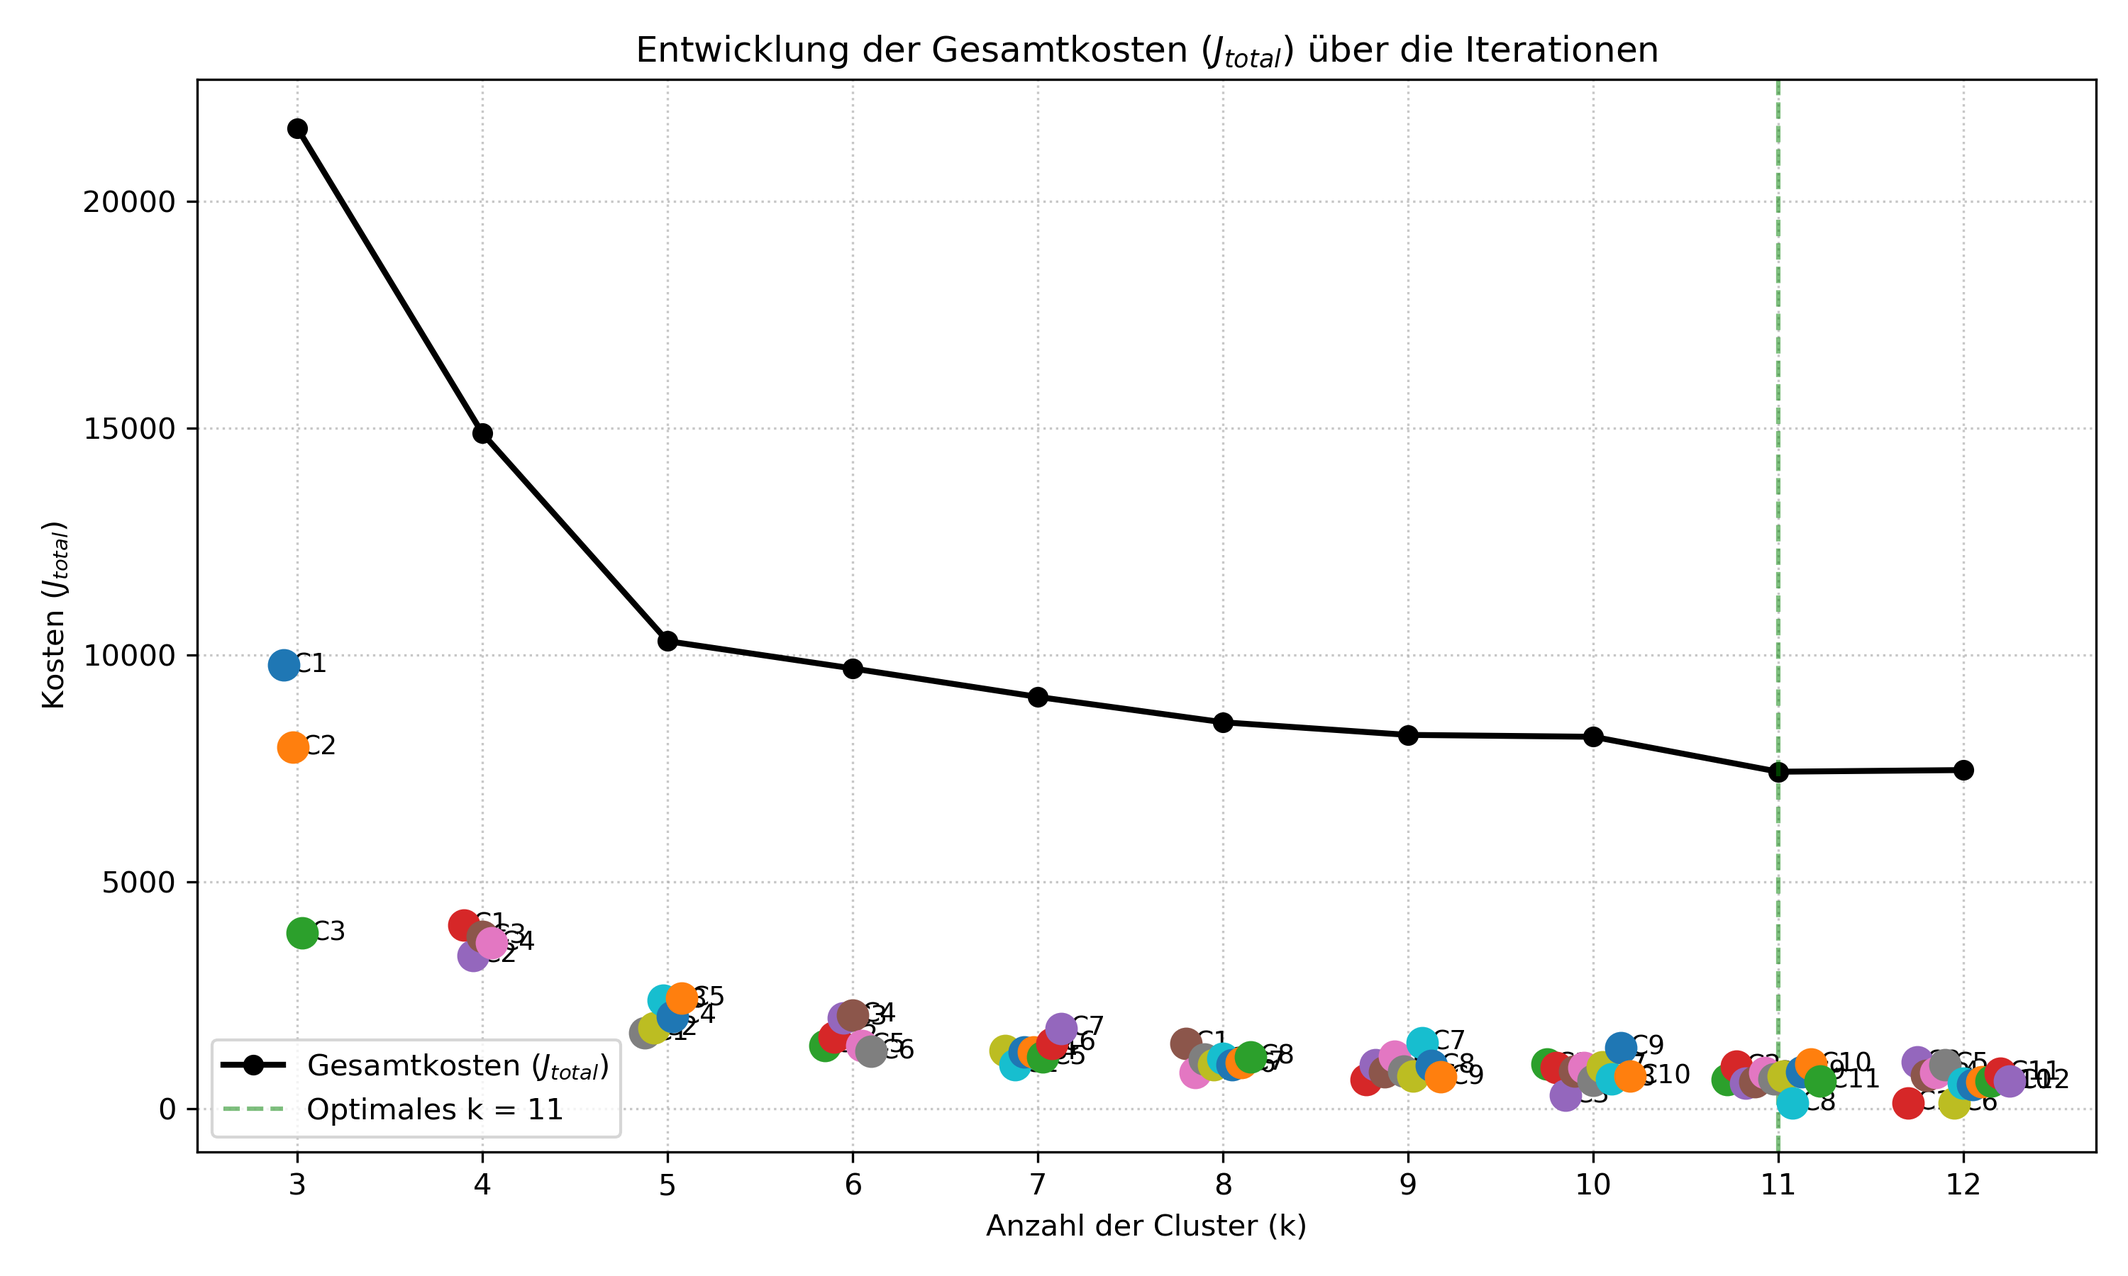
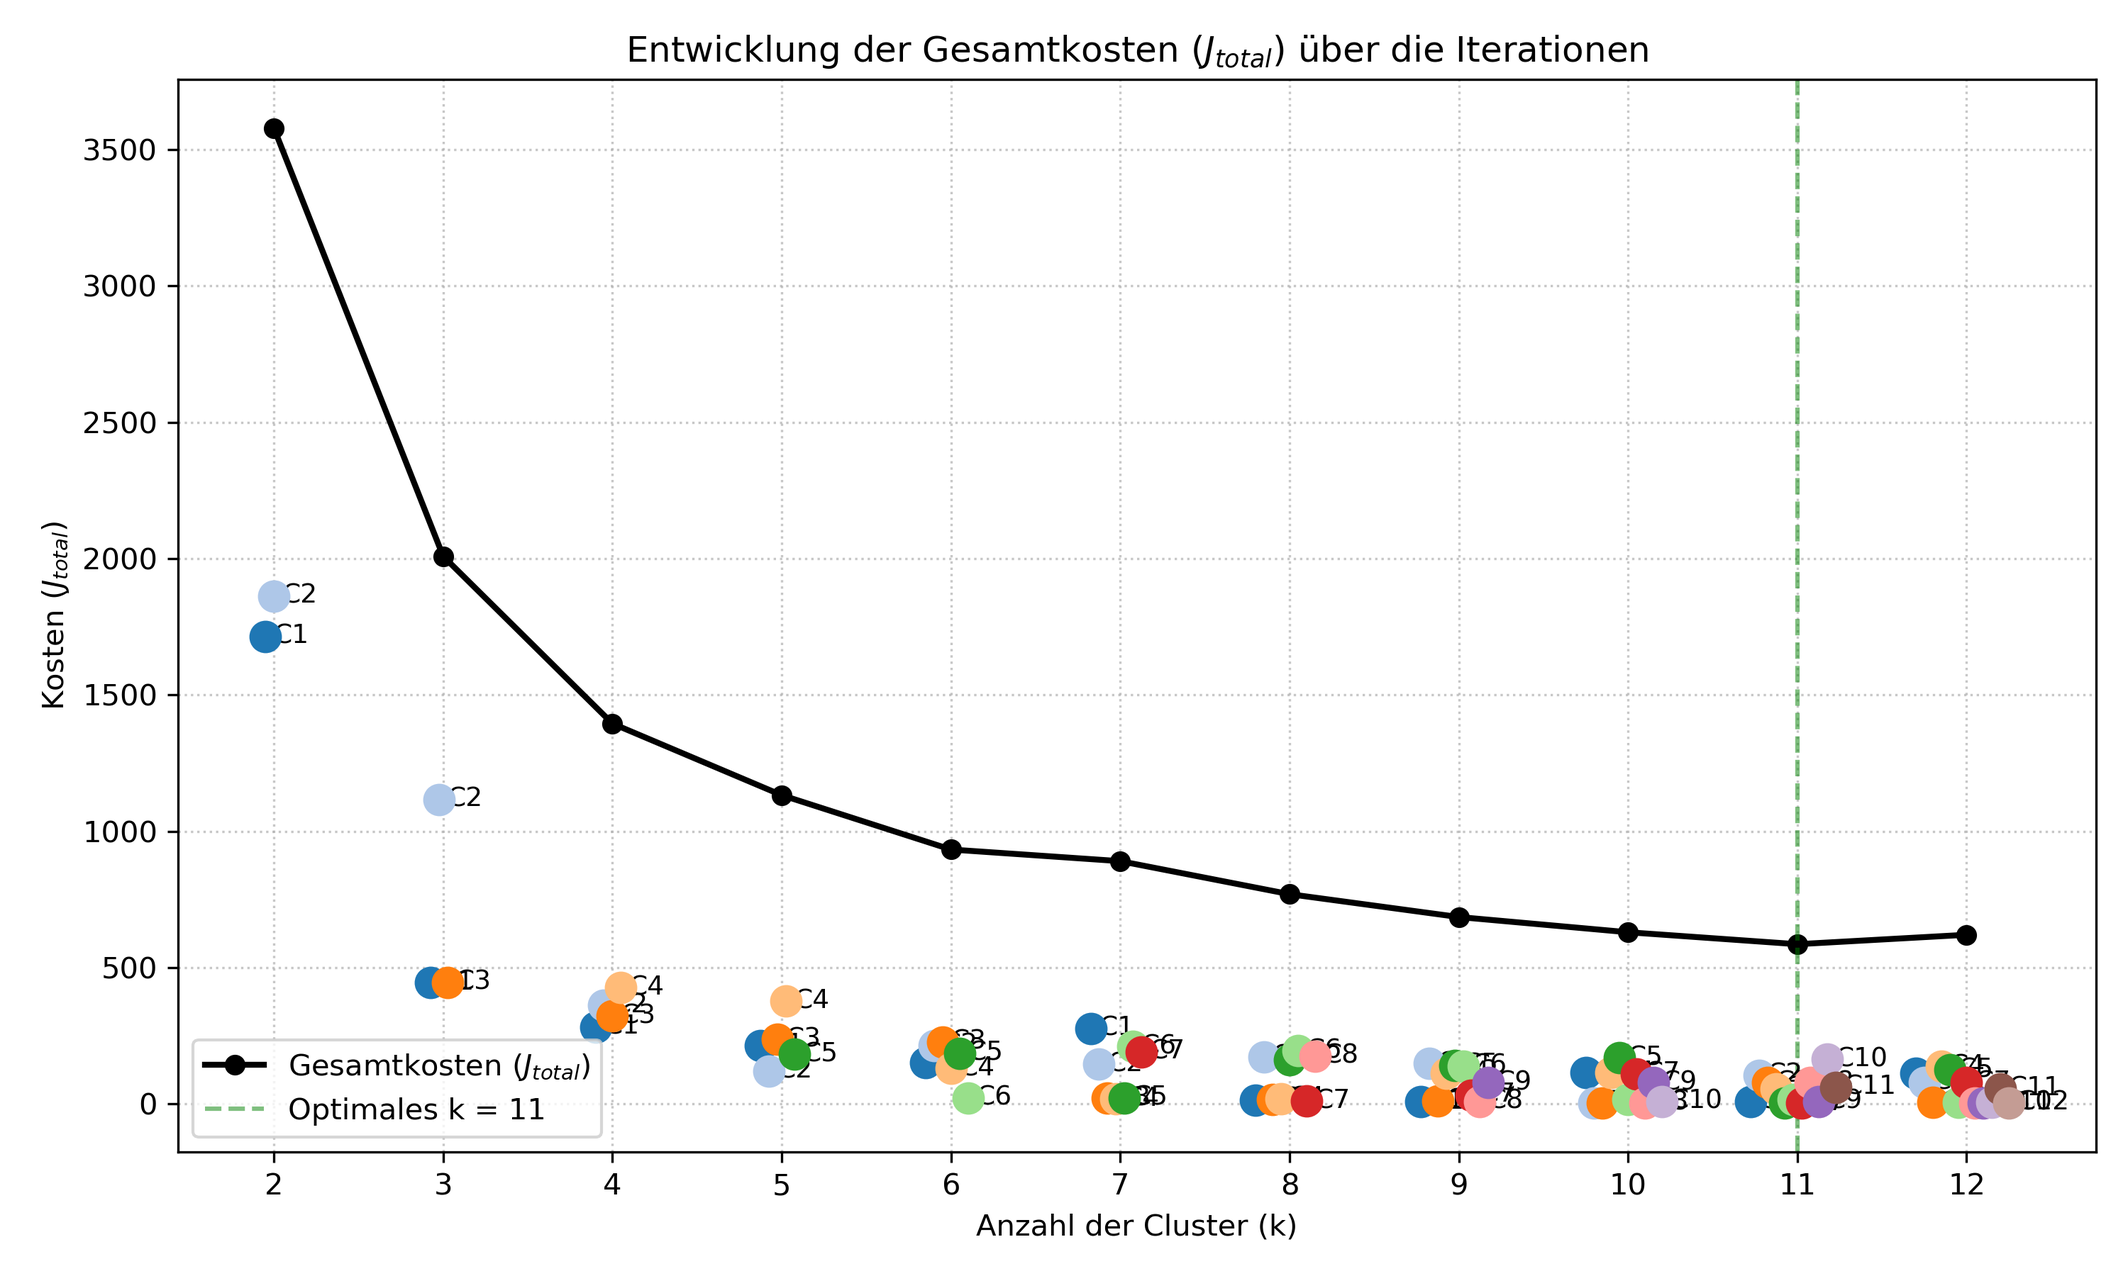
Farbanpassungen, Hindernis hinzugeuegt, Körpergröße, debuggen

diff --git a/src/multi_robot_optimizer/multi_robot_optimizer/optimizer_node.py b/src/multi_robot_optimizer/multi_robot_optimizer/optimizer_node.py
@@ -13,6 +13,14 @@ from visualization_msgs.msg import Marker, MarkerArray
 class OptimizerNode(Node):
     def __init__(self):
         super().__init__('formation_optimizer_node')
+
+        # --- HIER: DIE DEFINITION DER HINDERNISSE ---
+        self.target_obstacles = [[0.0, 0.0, 5.0, 20.0, 15.0, 10.0]]
+        self.avoidance_obstacles = [[15.0, 12.0, 5.0, 5.0, 5.0, 10.0]]
+        
+        # Falls du alte Funktionen hast, die zwingend 'obstacle_coords' brauchen,
+        # kombiniere sie hier einmalig:
+        self.obstacle_coords = self.target_obstacles + self.avoidance_obstacles
         
         # ==========================================
         # Schritt 1: Dateneingabe
@@ -52,6 +60,33 @@ class OptimizerNode(Node):
         self.marker_pub = self.create_publisher(MarkerArray, 'formation_markers', 10)
         self.obstacle_pub = self.create_publisher(MarkerArray, 'obstacle_markers', 10)
 
+        # Feste Farbpalette für bis zu 20 Cluster
+        # Basierend auf Matplotlibs 'tab20' (Wissenschaftlicher Standard)
+        # (R, G, B) im Bereich 0.0 bis 1.0
+        # ==========================================
+        self.cluster_colors = [
+            (0.122, 0.467, 0.706),  # Cluster 0: Dunkelblau
+            (0.682, 0.780, 0.910),  # Cluster 1: Hellblau
+            (1.000, 0.498, 0.055),  # Cluster 2: Orange
+            (1.000, 0.733, 0.471),  # Cluster 3: Hellorange
+            (0.173, 0.627, 0.173),  # Cluster 4: Grün
+            (0.596, 0.875, 0.541),  # Cluster 5: Hellgrün
+            (0.839, 0.153, 0.157),  # Cluster 6: Rot
+            (1.000, 0.596, 0.588),  # Cluster 7: Hellrot
+            (0.580, 0.404, 0.741),  # Cluster 8: Lila
+            (0.773, 0.690, 0.835),  # Cluster 9: Helllila
+            (0.549, 0.337, 0.294),  # Cluster 10: Braun
+            (0.769, 0.612, 0.580),  # Cluster 11: Hellbraun
+            (0.890, 0.467, 0.761),  # Cluster 12: Pink
+            (0.969, 0.714, 0.824),  # Cluster 13: Hellpink
+            (0.498, 0.498, 0.498),  # Cluster 14: Grau
+            (0.780, 0.780, 0.780),  # Cluster 15: Hellgrau
+            (0.737, 0.741, 0.133),  # Cluster 16: Olivgrün
+            (0.859, 0.859, 0.553),  # Cluster 17: Hellolivgrün
+            (0.090, 0.745, 0.812),  # Cluster 18: Cyan
+            (0.620, 0.855, 0.898),  # Cluster 19: Hellcyan
+        ]
+
         # Startpositionen der Roboter (x1, y1, x2, y2, x3, y3)
         # Startpositionen für 6 Roboter (x1, y1, x2, y2, ...)
         self.start_robot_poses = [
@@ -62,12 +97,12 @@ class OptimizerNode(Node):
             1.0, 1.0,  # Roboter 5
             2.0, 1.0   # Roboter 6
         ]
-        self.obstacle_coords = [[0.0, 0.0, 5.0, 20.0, 15.0, 10.0]]
+        
         
         # NEU: Automatisierte 3D-Grid-Generierung passend zum Gebäude
         # 1 Drohne pro 1 qm Wandfläche, genau 1m Abstand zur Wand
         generated_drones_3d = []
-        import numpy as np
+        
         
         # Wand-Dimensionen des Gebäudes: Länge (X)=20m, Breite (Y)=15m, Höhe (Z)=10m
         # Das Gebäude zentriert sich von X=[-10, 10], Y=[-7.5, 7.5], Z=[0, 10]
@@ -75,8 +110,8 @@ class OptimizerNode(Node):
         # A) Kurze Wände (Vorne & Hinten bei X = -11.0 und +11.0 wegen 1m Abstand)
         # Y-Spanne: 15m Breite -> 15 Punkte im 1m-Abstand
         # Z-Spanne: 10m Höhe -> 10 Punkte im 1m-Abstand (0.5m bis 9.5m, keine Drohnen über 10m)
-        y_coords = np.linspace(-7.0, 7.0, 15)
-        z_coords = np.linspace(0.5, 9.5, 10)
+        y_coords = np.linspace(-7.0, 7.0, 5)
+        z_coords = np.linspace(0.5, 9.5, 2)
         
         for x in [-11.0, 11.0]:
             for y in y_coords:
@@ -85,7 +120,7 @@ class OptimizerNode(Node):
                     
         # B) Lange Wände (Links & Rechts bei Y = -8.5 und +8.5 wegen 1m Abstand)
         # X-Spanne: 20m Länge -> 20 Punkte im 1m-Abstand
-        x_coords = np.linspace(-9.5, 9.5, 20)
+        x_coords = np.linspace(-9.5, 9.5, 7)
         
         for y in [-8.5, 8.5]:
             for x in x_coords:
@@ -130,18 +165,7 @@ class OptimizerNode(Node):
         self.previous_total_cost = float('inf')
         self.best_marker_array = None # Speicher für die beste RViz-Ausgabe (k-1)
         
-        ## Einheitliche Farben für Drohnen und Roboter desselben Clusters
-        self.cluster_colors = [
-            ((0.0, 1.0, 0.0), (0.0, 1.0, 0.0)), # Hellgrün
-            ((1.0, 1.0, 0.0), (1.0, 1.0, 0.0)), # Gelb
-            ((0.0, 1.0, 1.0), (0.0, 1.0, 1.0)), # Cyan
-            ((1.0, 0.0, 1.0), (1.0, 0.0, 1.0)), # Magenta
-            ((1.0, 0.5, 0.0), (1.0, 0.5, 0.0)), # Orange
-            ((1.0, 0.2, 0.2), (1.0, 0.2, 0.2)), # Hellrot
-            ((0.5, 0.5, 1.0), (0.5, 0.5, 1.0)), # Hellblau
-            ((1.0, 1.0, 1.0), (1.0, 1.0, 1.0))  # Weiß
-        ]
-
+        
         # Starte die hochpräzise Stoppuhr
         start_time = time.perf_counter()
         
@@ -195,9 +219,13 @@ class OptimizerNode(Node):
         
         w_move = self.params.get('w_move', 0.1)
         
+        # 1. NEU HIER EINBAUEN: Beide Hindernis-Listen kombinieren
+        all_physical_obstacles = self.target_obstacles + self.avoidance_obstacles
+        
         for idx, cluster_drones in enumerate(clusters):
             # 1. INNERE SCHLEIFE (PSO)
-            best_form, pso_cost = self.optimizer.run_pso(cluster_drones, self.start_robot_poses, self.obstacle_coords)
+            # 2. HIER ANPASSEN: all_physical_obstacles statt self.obstacle_coords übergeben
+            best_form, pso_cost = self.optimizer.run_pso(cluster_drones, self.start_robot_poses, all_physical_obstacles)
             
             # NEUE LOGIK: Wenn die Kosten explodieren, ist diese Cluster-Aufteilung physikalisch unmöglich
             if best_form is None or pso_cost >= 1e8:
@@ -284,9 +312,12 @@ class OptimizerNode(Node):
         sorted_clusters.sort(key=lambda item: item[0])
 
         for idx, (_, cluster_drones, form) in enumerate(sorted_clusters):
-            d_color, r_color = self.cluster_colors[idx % len(self.cluster_colors)]
+            # 1. Hole die einzelne (R, G, B) Farbe für dieses Cluster
+            c_color = self.cluster_colors[idx % len(self.cluster_colors)]
+            
+            # 2. Übergebe diese Farbe sowohl an drone_color als auch an robot_color
             self.add_cluster_markers(marker_array, cluster_drones, form, 
-                                     drone_color=d_color, robot_color=r_color, base_id=(idx+1)*100)
+                                     drone_color=c_color, robot_color=c_color, base_id=(idx+1)*100)
         
         self.best_marker_array = marker_array 
         self.marker_pub.publish(marker_array)
@@ -298,76 +329,86 @@ class OptimizerNode(Node):
         
     # --- Hilfsfunktionen für RViz ---
     def publish_obstacles(self):
-        # Erstelle ein neues MarkerArray für die Hindernisse
         marker_array = MarkerArray()
         
-        # Standardwerte (exakt die gleichen wie in der Mathematik!)
-        DEFAULT_SIZE = 2.0
-        DEFAULT_HEIGHT = 5.0
+        # Hilfsfunktion für die Marker-Generierung
+        def create_markers(obs_list, r, g, b):
+            for obs in obs_list:
+                marker = Marker()
+                marker.header.frame_id = "map"
+                marker.header.stamp = self.get_clock().now().to_msg()
+                marker.ns = "obstacles"
+                
+                # Vergibt automatisch immer die nächste freie ID (0, 1, 2, ...)
+                marker.id = len(marker_array.markers) 
+                marker.type = Marker.CUBE
+                marker.action = Marker.ADD
+                
+                # Format auslesen: [x, y, z, size_x, size_y, size_z]
+                marker.pose.position.x = float(obs[0])
+                marker.pose.position.y = float(obs[1])
+                marker.pose.position.z = float(obs[2])
+                
+                marker.pose.orientation.w = 1.0 
+                marker.pose.orientation.x = 0.0
+                marker.pose.orientation.y = 0.0
+                marker.pose.orientation.z = 0.0
+
+                marker.scale.x = float(obs[3])
+                marker.scale.y = float(obs[4])
+                marker.scale.z = float(obs[5])
+
+                # Die übergebene Farbe anwenden
+                marker.color.r = r
+                marker.color.g = g
+                marker.color.b = b
+                marker.color.a = 0.7 
+
+                marker_array.markers.append(marker)
+
+        # 1. Mess-Objekte / Zielgebäude zeichnen (Grün)
+        create_markers(self.target_obstacles, 0.2, 0.8, 0.2)
         
-        for i, obs in enumerate(self.obstacle_coords):
-            marker = Marker()
-            marker.header.frame_id = "map" # Wichtig für RViz
-            marker.header.stamp = self.get_clock().now().to_msg()
-            marker.ns = "obstacles"
-            marker.id = i
-            marker.type = Marker.CUBE  # <--- HIER: Wir nutzen jetzt Quader!
-            marker.action = Marker.ADD
-            
-            # 1. Daten extrahieren (Genau wie in pso_algorithm.py)
-            if isinstance(obs, dict):
-                x = obs.get('x', 0.0)
-                y = obs.get('y', 0.0)
-                s = obs.get('s', DEFAULT_SIZE)
-                h = obs.get('h', DEFAULT_HEIGHT)
-                z = obs.get('z', h / 2.0)
-            else:
-                x, y = obs[0], obs[1]
-                s, h = DEFAULT_SIZE, DEFAULT_HEIGHT
-                z = h / 2.0
+        # 2. Ausweich-Hindernisse / Störobjekte zeichnen (Rot)
+        create_markers(self.avoidance_obstacles, 0.8, 0.2, 0.2)
 
-            # 2. Position an RViz übergeben
-            marker.pose.position.x = float(x)
-            marker.pose.position.y = float(y)
-            marker.pose.position.z = float(z)
-            
-            # Ausrichtung (Quader steht gerade)
-            marker.pose.orientation.w = 1.0 
-            marker.pose.orientation.x = 0.0
-            marker.pose.orientation.y = 0.0
-            marker.pose.orientation.z = 0.0
-
-            # 3. Skalierung direkt an die Mathematik koppeln
-            marker.scale.x = float(s) # Breite (X-Achse)
-            marker.scale.y = float(s) # Tiefe (Y-Achse)
-            marker.scale.z = float(h) # Höhe (Z-Achse)
-
-            # 4. Optik (Ziegelrot und leicht transparent)
-            marker.color.r = 0.8
-            marker.color.g = 0.2
-            marker.color.b = 0.2
-            marker.color.a = 0.7 # Transparenz, damit man Drohnen dahinter noch erahnen kann
-
-            marker_array.markers.append(marker)
-
-        # Publisher aufrufen (stelle sicher, dass self.obstacle_pub in __init__ definiert ist)
+        # Alles gebündelt an RViz senden
         self.obstacle_pub.publish(marker_array)
 
     def add_cluster_markers(self, marker_array, drones, formation, drone_color, robot_color, base_id):
+        # 1. Drohnen zeichnen (bleibt unverändert)
         for idx, d in enumerate(drones):
             # d[2] sorgt dafür, dass die Kugel in RViz in der Luft schwebt!
             drone_marker = self.create_base_marker(base_id + idx, Marker.SPHERE, d[0], d[1], d[2], *drone_color)
             drone_marker.scale.x, drone_marker.scale.y, drone_marker.scale.z = 0.5, 0.5, 0.5
             marker_array.markers.append(drone_marker)
             
-        # Dynamische Anzahl der Roboter aus der Formations-Länge ableiten
+        # 2. Roboter-Typen laden (Fallback-Liste)
+        robot_types = getattr(self, 'params', {}).get('robot_types', ['A', 'A', 'A', 'A', 'B', 'B'])
+
+        # 3. Dynamische Anzahl der Roboter aus der Formations-Länge ableiten
         num_robots = len(formation) // 2
         for i in range(num_robots):
             rx = float(formation[i*2])
             ry = float(formation[i*2+1])
-            robot_marker = self.create_base_marker(base_id + 50 + i, Marker.CYLINDER, rx, ry, 0.2, *robot_color)
-            robot_marker.scale.x, robot_marker.scale.y, robot_marker.scale.z = 0.6, 0.6, 0.4
+            
+            # Welcher Typ ist dieser Roboter?
+            r_type = robot_types[i] if i < len(robot_types) else 'A'
+
+            # 4. Marker mit typspezifischer Höhe, aber CLUSTER-FARBE erstellen
+            if r_type == 'A':
+                # Typ A: Flach (0.2m hoch)
+                scale_z = 0.2
+                robot_marker = self.create_base_marker(base_id + 50 + i, Marker.CYLINDER, rx, ry, scale_z / 2.0, *robot_color)
+                robot_marker.scale.x, robot_marker.scale.y, robot_marker.scale.z = 0.5, 0.5, scale_z
+            else:
+                # Typ B: Hoch (1.2m hoch)
+                scale_z = 1.2
+                robot_marker = self.create_base_marker(base_id + 50 + i, Marker.CYLINDER, rx, ry, scale_z / 2.0, *robot_color)
+                robot_marker.scale.x, robot_marker.scale.y, robot_marker.scale.z = 0.6, 0.6, scale_z
+
             marker_array.markers.append(robot_marker)
+
     def create_base_marker(self, m_id, m_type, x, y, z, r, g, b):
         marker = Marker()
         marker.header.frame_id = "map"
@@ -395,9 +436,13 @@ class OptimizerNode(Node):
         # Einzelne Clusterkosten als Punkte (Scatter) eintragen
         for k, costs in self.cluster_costs_history.items():
             for idx, c in enumerate(costs):
+                # 1. Die exakt gleiche Farbe wie in RViz aus der Liste laden!
+                c_color = self.cluster_colors[idx % len(self.cluster_colors)]
+                
                 # Punkte einzeichnen (leicht versetzt auf der x-Achse für bessere Lesbarkeit)
                 offset = (idx - len(costs)/2) * 0.05 
-                plt.scatter(k + offset, c, s=100, zorder=5)
+                # 2. Das color=c_color Argument hinzufügen
+                plt.scatter(k + offset, c, s=100, zorder=5, color=c_color)
                 # Cluster-Nummer daneben schreiben
                 plt.text(k + offset + 0.05, c, f'C{idx+1}', fontsize=9, verticalalignment='center')
 

diff --git a/src/multi_robot_optimizer/multi_robot_optimizer/pso_algorithm.py b/src/multi_robot_optimizer/multi_robot_optimizer/pso_algorithm.py
@@ -18,7 +18,7 @@ class SwarmOptimizer:
         # 2. Dynamische Partikelanzahl: N = 10 * D (mindestens 30)
         num_particles = max(30, 10 * dimensions)
         
-        particles = np.random.uniform(-5, 5, (num_particles, dimensions))
+        particles = np.random.uniform(-15, 15, (num_particles, dimensions))
         
         # Streuung der Partikel um das Cluster-Zentrum
         for i in range(self.num_robots):
@@ -66,6 +66,16 @@ class SwarmOptimizer:
                     global_best_position = particles[i].copy()
                     improved = True
             
+
+            # ==========================================
+            # NEUER SICHERHEITSCHECK falls alle Partikel im Hindernis landen
+            # ==========================================
+            if global_best_position is None:
+                # Der komplette Schwarm steckt im Hindernis fest. 
+                # Sofortiger Abbruch, Melde "Unmöglich" an den Hauptknoten!
+                return None, float('inf')
+            
+
             # --- START PARTIKEL UPDATE ---
             # Zufallsmatrizen r1 und r2 (stochastische Komponente)
             r1 = np.random.rand(num_particles, dimensions)
@@ -335,9 +345,10 @@ class SwarmOptimizer:
     def _calculate_obstacle_penalty(self, formation, obstacle_coords):
         penalty = 0.0
         
-        # Werte für deine Parameter (siehe LaTeX-Notizen)
+        # Werte für deine Parameter
         d_safe = self.params.get('d_safe', 2.0)
-        d_crash = self.params.get('d_crash', 0.15)
+        # Erhöht auf 0.3 (30cm Roboter-Radius), damit er nicht mal die Wand berührt
+        d_crash = self.params.get('d_crash', 0.3) 
 
         for i in range(self.num_robots):
             rx, ry = formation[i*2], formation[i*2+1]
@@ -346,26 +357,32 @@ class SwarmOptimizer:
             min_d_obs = float('inf')
             
             for obs in obstacle_coords:
-                # Robuste Datenextraktion (wie in _is_los_blocked)
+                # 1. ROBUSTE DATENEXTRAKTION (Erkennt jetzt das 20x15 Gebäude!)
                 if isinstance(obs, dict):
-                    ox = obs.get('x', 0.0)
-                    oy = obs.get('y', 0.0)
-                    os_val = obs.get('s', 2.0)
+                    cx = obs.get('x', 0.0)
+                    cy = obs.get('y', 0.0)
+                    sx = obs.get('s', 2.0)
+                    sy = obs.get('s', 2.0)
+                elif len(obs) == 6:
+                    # Dein neues Format: [x, y, z, size_x, size_y, size_z]
+                    cx, cy = obs[0], obs[1]
+                    sx, sy = obs[3], obs[4]
                 else:
-                    ox, oy = obs[0], obs[1]
-                    os_val = 2.0
+                    # Altes Format Fallback
+                    cx, cy = obs[0], obs[1]
+                    sx, sy = 2.0, 2.0 
                 
-                # Euklidische Distanz zur nächstgelegenen Außenkante des Quaders
-                dx = max(0.0, abs(rx - ox) - (os_val / 2.0))
-                dy = max(0.0, abs(ry - oy) - (os_val / 2.0))
+                # 2. Euklidische Distanz zur Außenkante des Quaders (AABB)
+                dx = max(0.0, abs(rx - cx) - (sx / 2.0))
+                dy = max(0.0, abs(ry - cy) - (sy / 2.0))
                 d_obs = math.hypot(dx, dy)
                 
                 if d_obs < min_d_obs:
                     min_d_obs = d_obs
             
-            # Umsetzung der stückweise definierten Funktion aus der Thesis
+            # 3. Die unbarmherzige Wand
             if min_d_obs <= d_crash:
-                # Partikel ist physisch im Hindernis -> unendliche Kosten
+                # Partikel ist physisch im Hindernis oder berührt die Wand -> unendliche Kosten
                 return float('inf') 
             elif min_d_obs < d_safe:
                 # Partikel ist im Potenzialfeld -> exponentielle Strafe
